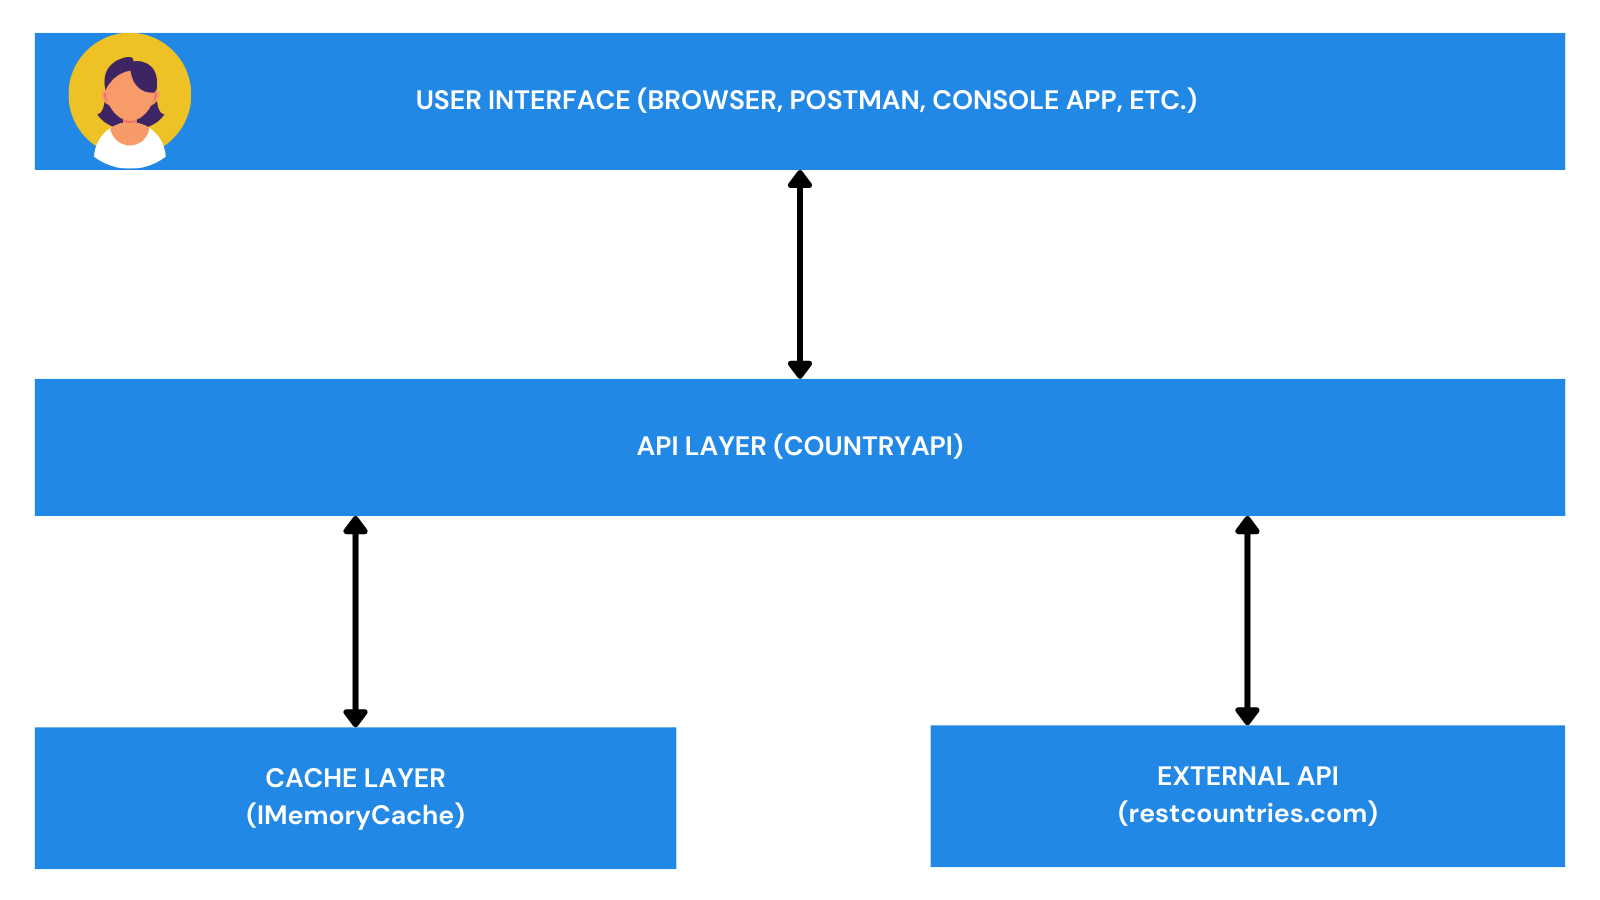
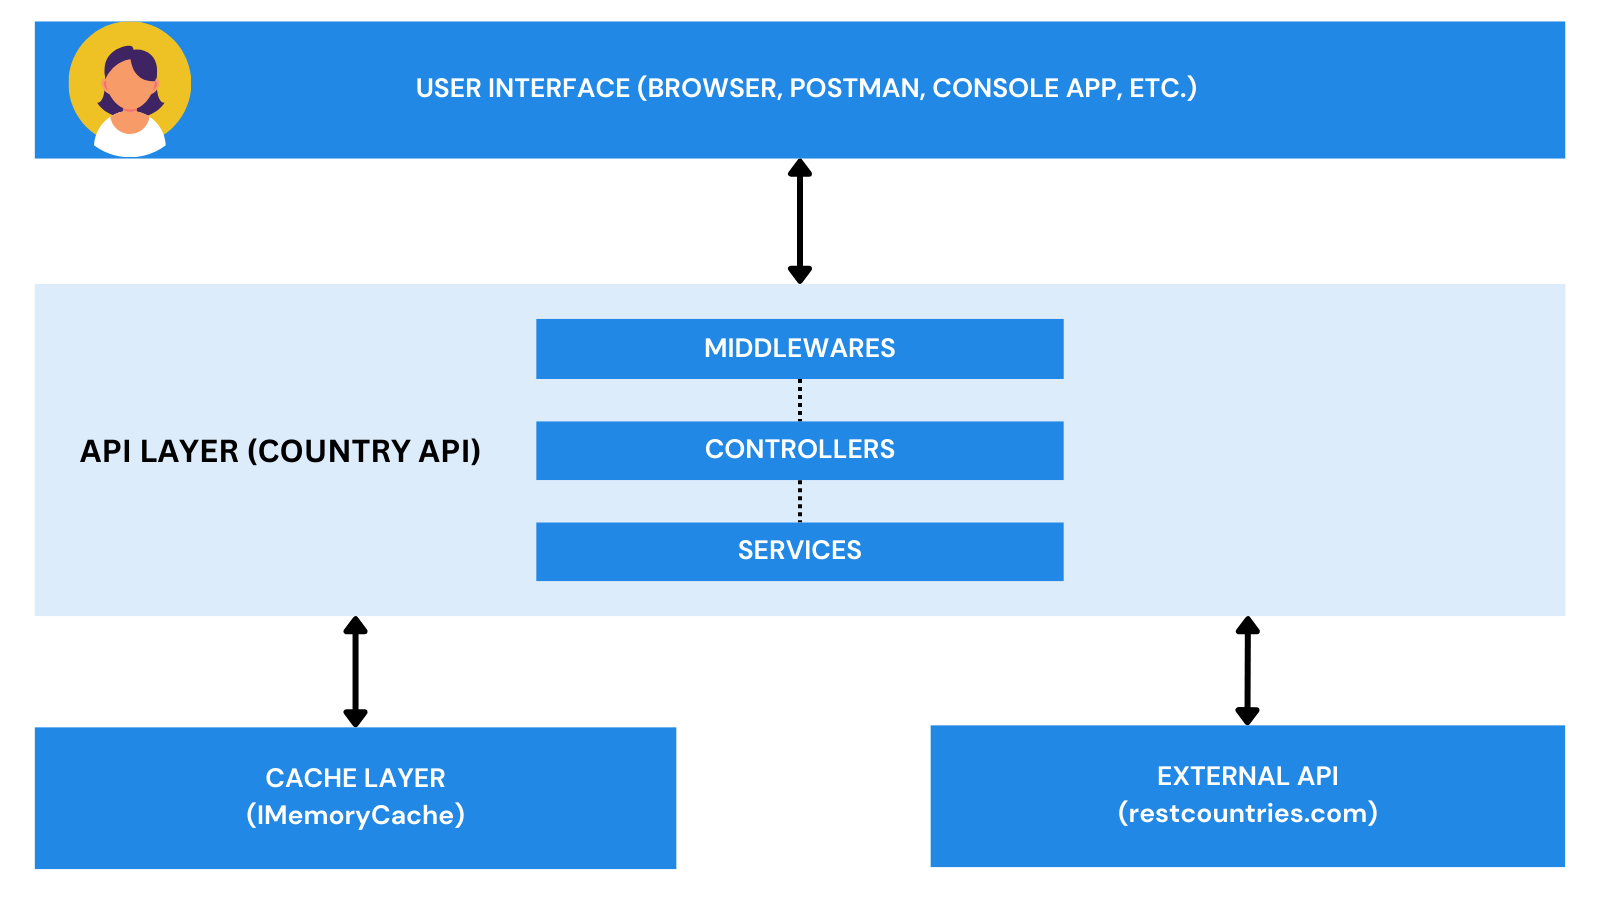
Add Swagger

diff --git a/Architecture.md b/Architecture.md
@@ -32,6 +32,12 @@ The architecture of the CountryAPI project is designed for scalability, maintain
    - **Interactions**:
      - The API Layer queries this service to fetch country data when it is not available in the cache.
 
+###  5. **Middleware Layer**
+  - **Description**: A layer of middleware that processes HTTP requests and responses. It includes custom middleware for tasks such as global error handling and serving standard JSON responses.
+  - **Key Features**: 
+      - **Global Error Handling**: Custom middleware captures 404 errors and other exceptions, providing informative JSON responses to users This middleware provides a friendly message at invalid URLs. This goal of this is to guide users to valid endpoints and documentation.
+  - **Interactions**: It sits between the API Layer and the request/response cycle for validation.
+
 ### 5. **CI/CD Pipeline (GitHub Actions)**
    - **Description**: Automated workflows that handle the build, test, and Azure deployment processes.
    - **Key Features**:
